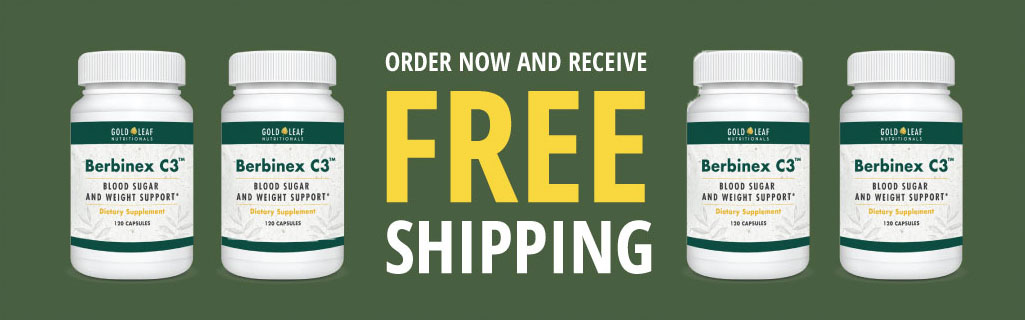
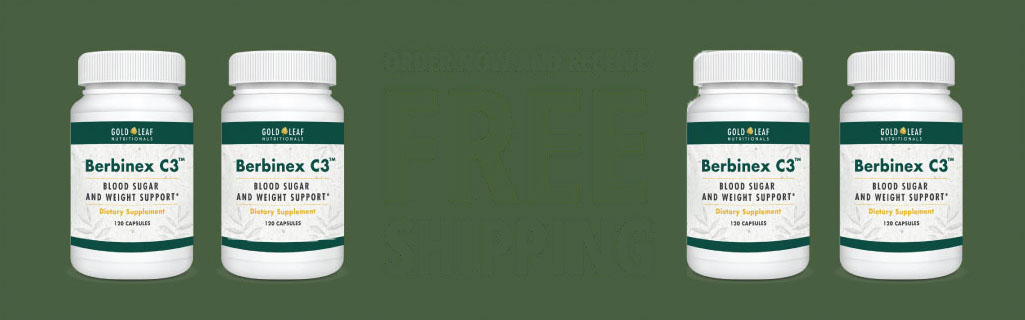
New Updates to Mobile Styling

Changed region(s): [[0.3746, 0.2812, 0.6556, 0.6562], [0.3746, 0.6875, 0.6556, 0.875], [0.3746, 0.1562, 0.6556, 0.2188]]

diff --git a/index.html b/index.html
@@ -79,19 +79,16 @@
                 <p>After all, if you’re concerned about your blood sugar… everyone out there is telling you something different…</p>
             </div>
         </div>
-        <!---
-
-
         <div class="red-section">
             <section class="redsection-text">
-            <h1 class="red-section-heading">You CAN now switch it back on.</h1>
-            <p>Even if you’re tired, out of shape, and have poor eating habits.</p>
-            <p>Your age doesn’t matter, either.</p>
-            <p>And when you do flip your AMPK on, you won’t believe the results…</p>
-            <p>You can keep your blood sugar healthy and stay sensitive to your natural insulin… so you can feel steady energy, look thin and trim…</p>
-            <p>...and stop stressing… because you know your numbers are in the normal range.</p>
-            <p>And the most incredible part is, it’s simpler than you think.</p>
-            <p>You can do this right in the comfort of your own home…</p>
+                <h2 class="red-section-heading">You CAN now switch it back on.</h2>
+                <p>Even if you’re tired, out of shape, and have poor eating habits.</p>
+                <p>Your age doesn’t matter, either.</p>
+                <p>And when you do flip your AMPK on, you won’t believe the results…</p>
+                <p>You can keep your blood sugar healthy and stay sensitive to your natural insulin… so you can feel steady energy, look thin and trim…</p>
+                <p>...and stop stressing… because you know your numbers are in the normal range.</p>
+                <p>And the most incredible part is, it’s simpler than you think.</p>
+                <p>You can do this right in the comfort of your own home…</p>
             </section>
         </div>
         <div class="last-section-container">
@@ -129,7 +126,7 @@
             </section>
 
             <section class="green-banner">
-                <img src="images/lastsectionimages/greenbanner/banner_1025.jpg" class="green-banner-image" alt="Order now and receive free shipping">
+                <h2 class="green-banner-heading">Order Now And Receive Free Shipping</h2>
             </section>
             <section class="last-section-main-text">
                 <P>That’s right… you get FREE shipping on today’s order and all future Priority Pass orders.</P>
@@ -146,22 +143,26 @@
                 <img src="images/lastsectionimages/TransparentArrow2.png" alt="down arrow">
             </section>
             <section class="footer">
-                <section class="cart-button">
-                    <p>ADD TO CART</p>
-                    <p>(YOU CAN REVIEW YOUR ORDER BEFORE IT'S FINAL)</p>
-                </section>
+                <button>
+                    <section class="cart-button">
+                        <p>ADD TO CART</p>
+                        <p>(YOU CAN REVIEW YOUR ORDER BEFORE IT'S FINAL)</p>
+                    </section>
+                </button>
                 <section class="product-label">
                     <a href="/" target="_blank">View the Product Label</a>
                 </section>
                 <section class="copyright">
-                    <span>CardiaSlim&#174;
- brand property blend of two plant extracts is a registered trademark of</span>
+                    <span>CardiaSlim&#174; brand property blend of two plant extracts is a registered trademark of</span>
                     <span>Laila Nutraceuticals and InterHealth Nutraceuticals, Benica, CA 94510</span>
                 </section>
             </section>
         </section>
             </div>
         </div>
+        <!---
+
+
         -->
         
         <script src="index.js"></script>

diff --git a/index.css b/index.css
@@ -1,3 +1,8 @@
+* {
+    margin:0;
+    padding:0;
+}
+
 html, body {
     background-color: white;
     overflow-x: hidden; 
@@ -48,6 +53,9 @@ span.white-text {
 /*Section 1*/
 .section1-part1 {
     font-size: 1.6em;
+    width: 90%;
+    margin: 20px auto;
+
 }
 
 .list1 {
@@ -83,8 +91,13 @@ span.list-text {
     font-size: 1.6em;
 }
 
+.section1-part3 > p {
+    margin: 20px;
+}
+
 .section1-list {
     list-style: none;
+    margin: 20px;
 }
 
 .section1-list > li:before {
@@ -132,14 +145,97 @@ span.list-text {
 
 }
 
+.brown-bar-text > p {
+    margin: 20px auto;
+}
+
 /*Switch Section*/
 
 .switch-section-container {
     font-size: 1.6em;
 }
 
+.switch-section-container > div > p {
+    margin: 20px auto;
+}
+
 .switch-section {
-    width: 90%;;
+    width: 90%;
     margin: 0px auto;
 }
 
+/*Red Section*/
+
+.red-section {
+    background-image: url(images/redsectionimages/Gears_15.jpg);
+    background-size: cover;
+    color: white;
+}
+
+.redsection-text {
+    /* margin: 0px 100px 0px 100px; */
+    width: 90%;;
+    margin: 0px auto;
+    font-size: 1.6em;
+    padding: 20px 0px;
+}
+
+.red-section-heading {
+    color: #FFCD2F;
+}
+
+.redsection-text > p {
+    margin: 20px auto;
+}
+
+/*Last Section*/
+
+.last-section-container {
+    background-image: url(images/lastsectionimages/TransparentArrowBkgd.jpg);
+    background-size: cover;
+    background-repeat: no-repeat;
+    color: black;
+    font-size: 1.6em;
+}
+
+.last-section-container > div p, h1 {
+    margin: 20px auto;
+}
+
+section.last-section-container1 > section:nth-child(4) > p:nth-child(8) {
+    margin: 20px auto 0px;
+}
+
+.transparent-layer {
+    background: linear-gradient(rgb(255, 255, 255), rgb(255, 255, 255), rgb(255, 255, 255, 0.1), rgba(0,0,0,0.1));
+}
+
+.last-section-container1 {
+    background-color: white;
+    background: linear-gradient(rgb(255, 255, 255), rgba(255, 255, 255, 0.7));
+    color: black;
+    margin: 0px auto;
+}
+
+.last-section-image-1 {
+    width: 100%;
+}
+
+.last-section-main-text {
+    margin: 0px auto;
+    width: 90%;
+}
+
+.green-banner {
+    background-image: url('images/lastsectionimages/greenbanner/banner_600.jpg');
+    background-size: cover;
+    height: 160px;
+}
+
+.green-banner-heading {
+    height: auto;
+}
+
+.arrow-image > img {
+    width: 100%;
+}
